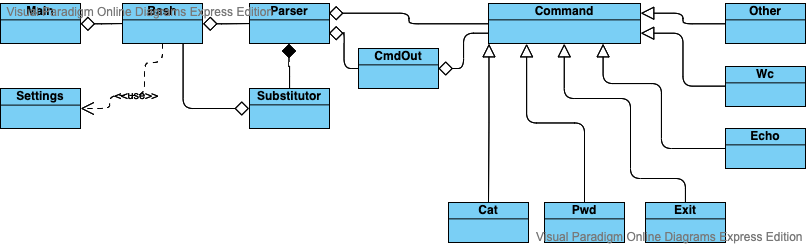
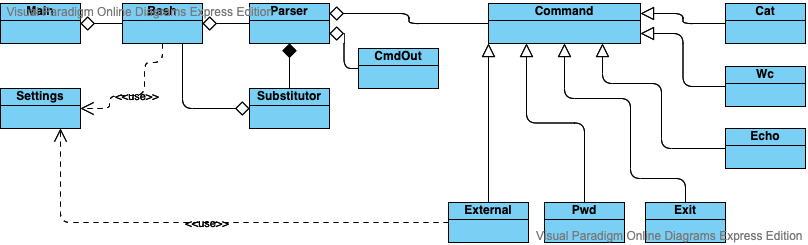
add handleLastPipeIsEmpty, fix line sep and External command error output

diff --git a/src/test/java/com/bash/CommandsIntegrationTest.kt b/src/test/java/com/bash/CommandsIntegrationTest.kt
@@ -10,6 +10,9 @@ import java.io.PrintStream
 
 
 class CommandsIntegrationTest {
+    
+    private val sep = System.lineSeparator() 
+    
     @Test
     fun testEcho() {
         val input = "echo hello world"
@@ -18,13 +21,13 @@ class CommandsIntegrationTest {
 
     @Test
     fun testSimpleEnv() {
-        val input = "x=1\necho \$x"
+        val input = "x=1${sep}echo \$x"
         checkCommand(input, "${Settings.PREFIX}1")
     }
 
     @Test
     fun testEnvWithQuotes() {
-        val input = "x=1\necho \"'\$x'\""
+        val input = "x=1${sep}echo \"'\$x'\""
         checkCommand(input, "${Settings.PREFIX}'1'")
     }
 
@@ -36,7 +39,7 @@ class CommandsIntegrationTest {
 
     @Test
     fun testWcWithEnv() {
-        val input = "FILE=src/test/resources/in1.txt\n" +
+        val input = "FILE=src/test/resources/in1.txt${sep}" +
                 "wc \$FILE"
         checkCommand(input, "${Settings.PREFIX}\t\t3\t\t4\t\t24 src/test/resources/in1.txt")
     }
@@ -75,17 +78,17 @@ class CommandsIntegrationTest {
 
     @Test
     fun testEnvSubstitution() {
-        val input = "a=one\n" +
-                    "b=two\n" +
+        val input = "a=one${sep}" +
+                    "b=two${sep}" +
                     "echo \$a\$b"
         checkCommand(input,"${Settings.PREFIX}${Settings.PREFIX}onetwo")
     }
 
     @Test
     fun testExitFromEnv() {
-        val input = "a=ex\n" +
-                    "b=it\n" +
-                    "\$a\$b\n" +
+        val input = "a=ex${sep}" +
+                    "b=it${sep}" +
+                    "\$a\$b${sep}" +
                     "echo should not print"
 
         val expectedBashOut = "${Settings.PREFIX}${Settings.PREFIX}${Settings.PREFIX}"
@@ -107,15 +110,43 @@ class CommandsIntegrationTest {
     @Test
     fun testErrorOutput() {
         val input = "exit 1 2 | exit 1 2 3 | echo a"
-        val expectedOut = "-bash: exit: too many arguments\n" +
-                "-bash: exit: too many arguments\n" +
+        val expectedOut = "-bash: exit: too many arguments${sep}" +
+                "-bash: exit: too many arguments${sep}" +
                 "a"
         checkCommand(input, expectedOut)
     }
 
+    @Test
+    fun testEmptyPipe() {
+        val input = "echo lol |$sep" + "cat"
+        val expectedOut = ">lol"
+        checkCommand(input, expectedOut)
+    }
+
+    @Test
+    fun testEmptyPipeClickEnter() {
+        val input = "echo lol |$sep$sep$sep$sep cat"
+        val expectedOut = ">>>>lol"
+        checkCommand(input, expectedOut)
+    }
+
+    @Test
+    fun testEmptyPipeError() {
+        val input = "echo lol |$sep exit 1 2 3"
+        val expectedOut = ">-bash: exit: too many arguments$sep"
+        checkCommand(input, expectedOut)
+    }
+
+    @Test
+    fun testEmptyPipePiped() {
+        val input = "echo lol |$sep cat | echo 123 | cat"
+        val expectedOut = ">123"
+        checkCommand(input, expectedOut)
+    }
+
     private fun checkCommand(input: String, expectedOut: String) {
-        val command = "$input${System.lineSeparator()} exit" // add exit command
-        val expectedBashOut =  Settings.PREFIX + "$expectedOut\n" + Settings.PREFIX
+        val command = "$input${sep} exit" // add exit command
+        val expectedBashOut =  Settings.PREFIX + "$expectedOut${sep}" + Settings.PREFIX
 
         System.setIn(ByteArrayInputStream(command.toByteArray()))
         val output = ByteArrayOutputStream()
@@ -129,6 +160,7 @@ class CommandsIntegrationTest {
 
     private fun ignoreColorChange(line: String): String {
         return line.replace(Settings.OUTPUT_COLOR, "", false)
+                .replace(Settings.ERR_COLOR, "", false)
                 .replace(Settings.ANSI_RESET, "", false)
     }
 }

diff --git a/src/main/java/com/bash/commands/External.kt b/src/main/java/com/bash/commands/External.kt
@@ -1,15 +1,13 @@
 package com.bash.commands
 
 import com.bash.util.CmdRes
-import java.io.BufferedReader
-import java.io.BufferedWriter
-import java.io.InputStreamReader
-import java.io.OutputStreamWriter
+import com.bash.util.Settings
+import java.io.*
 import java.lang.Exception
 
 
 /** class for handling not yet supported bash com.bash.commands
- * redirecting the com.bash.commands to real bash and returns it's output
+ * redirecting the commands to real bash and returns it's output
  * all the environment variables are already substituted
  * **/
 class External(
@@ -18,32 +16,37 @@ class External(
         private val lastRes: String) : Command() {
 
     override fun run(): CmdRes {
-        val osName = System.getProperty("os.name").toLowerCase()
         val cmd = "$cmdString ${args.joinToString(separator = " ")}"
 
         val process: Process
         try {
-            process = if (osName.contains("win"))
+            process = if (Settings.IS_WINDOWS)
                 ProcessBuilder("CMD", "/C", cmd).start()
             else ProcessBuilder("/bin/bash", "-c", cmd).start()
         } catch (e: Exception) {
             return CmdRes("", "can't start process for command: $cmdString")
         }
 
-        // redirecting output from pipe in case it's piped command
-        val input = BufferedWriter(OutputStreamWriter(process.outputStream))
-        input.write(lastRes)
-        input.flush()
-        input.close()
+        try { // redirecting output from pipe in case it's piped command
+            val input = BufferedWriter(OutputStreamWriter(process.outputStream))
+            input.write(lastRes)
+            input.flush()
+            input.close()
+        } catch (e: IOException) { }
 
-        val reader = BufferedReader(InputStreamReader(process.inputStream))
-        val res = mutableListOf<String>()
+
+        return CmdRes(readStream(process.inputStream), readStream(process.errorStream))
+    }
+
+    private fun readStream(st: InputStream): String {
+        val reader = BufferedReader(InputStreamReader(st))
+        val outRes = mutableListOf<String>()
 
         var tmpOut: String? // reading output of a command
         while (reader.readLine().also { tmpOut = it } != null) {
-            res.add(tmpOut!!)
+            outRes.add(tmpOut!!)
         }
 
-        return CmdRes(res.joinToString(separator = "\n"), "")
+        return outRes.joinToString(separator = System.lineSeparator())
     }
 }

diff --git a/src/main/java/com/bash/Bash.kt b/src/main/java/com/bash/Bash.kt
@@ -5,6 +5,7 @@ import com.bash.parser.Parser
 import com.bash.util.CmdRes
 import com.bash.util.Settings
 import com.bash.util.Settings.ANSI_RESET
+import com.bash.util.Settings.ERR_COLOR
 import com.bash.util.Settings.OUTPUT_COLOR
 import com.bash.util.Substitutor
 
@@ -20,15 +21,18 @@ class Bash {
             val line = readLine() ?: continue
             if ((line == "") or runIsAssignment(line, parser)) { continue }
 
-            val commands = line.split("|")
+            val commands = line.split("|").toMutableList()
             var lastRes = CmdRes("", "")
+
+            if (commands.last().isBlank())
+                handleLastPipeIsEmpty(commands)
 
             for (cmd in commands) {
                 val command = parser.parse(cmd.trim(), lastRes.sdtOut)
                 lastRes = command.run()
 
                 if (lastRes.stdErr.isNotBlank()) // error output
-                    println(lastRes.stdErr)
+                    println(ERR_COLOR + lastRes.stdErr + ANSI_RESET)
 
                 if (command is Exit && commands.size == 1)
                     return
@@ -52,5 +56,19 @@ class Bash {
         }
 
         return false
+    }
+    
+    private fun handleLastPipeIsEmpty(commands: MutableList<String>) {
+        if (commands.last().isBlank())
+            commands.remove(commands.last())
+
+        print(">")
+        val newCommands = readLine()?.split("|")?.filter { it.isNotBlank() }
+        if (newCommands.isNullOrEmpty())
+            handleLastPipeIsEmpty(commands)
+
+        if (newCommands != null) {
+            commands.addAll(newCommands)
+        }
     }
 }

diff --git a/src/test/java/com/bash/CommandsTest.kt b/src/test/java/com/bash/CommandsTest.kt
@@ -2,7 +2,9 @@ package com.bash
 
 import com.bash.commands.External
 import com.bash.commands.Wc
+import com.bash.util.Settings
 import junit.framework.TestCase.assertEquals
+import junit.framework.TestCase.assertTrue
 import org.junit.Test
 import java.io.File
 
@@ -57,10 +59,23 @@ class CommandsTest {
     fun testExternalError() {
         val out = External("kkkk", emptyList(), "").run()
         assertEquals("", out.sdtOut)
+
+        if (Settings.IS_WINDOWS) {
+            assertTrue(out.stdErr.isNotBlank())
+        } else {
+            assertEquals("/bin/bash: kkkk: command not found", out.stdErr)
+        }
     }
 
     @Test
-    fun testOtherAsEchoTwoArgs() {
+    fun testExternalErrorOut() {
+        val out = External("git kkkk", emptyList(), "").run()
+        assertEquals("", out.sdtOut)
+        assertEquals("git: 'kkkk' is not a git command. See 'git --help'.", out.stdErr)
+    }
+
+    @Test
+    fun testExternalAsEchoTwoArgs() {
         val out = External("echo", listOf("lol", "lol2"), "").run()
         assertEquals("lol lol2", out.sdtOut)
     }

diff --git a/src/main/java/com/bash/commands/Cat.kt b/src/main/java/com/bash/commands/Cat.kt
@@ -2,6 +2,7 @@ package com.bash.commands
 
 import com.bash.util.CmdRes
 import java.io.File
+import java.lang.Exception
 
 /**
  * if not piped then first argument should be a filename
@@ -13,6 +14,14 @@ class Cat(private val args: List<String>, private val lastRes: String): Command(
             return CmdRes(lastRes, "")
 
         val filename = args.first()
-        return CmdRes(File(filename).readText(), "")
+
+        val res: String
+        try {
+            res = File(filename).readText()
+        } catch (e: Exception) {
+            return CmdRes("", e.toString())
+        }
+
+        return CmdRes(res, "")
     }
 }

diff --git a/src/main/java/com/bash/util/Settings.kt b/src/main/java/com/bash/util/Settings.kt
@@ -4,7 +4,9 @@ import com.bash.commands.Pwd
 
 /** CLI settings **/
 object Settings {
+    val IS_WINDOWS = System.getProperty("os.name").toLowerCase().contains("win")
     val PREFIX = Pwd().run().sdtOut + ">$"
     const val OUTPUT_COLOR = "\u001B[32m" // bash result color
+    const val ERR_COLOR = "\u001B[31m"  // err stream color
     const val ANSI_RESET = "\u001B[0m"    // reset the color back
 }

diff --git a/src/main/java/com/bash/main.kt b/src/main/java/com/bash/main.kt
@@ -1,7 +1,5 @@
 package com.bash
 
-import com.bash.Bash
-
 /** starting the program */
 fun main() {
     val sh = Bash()

diff --git a/README.md b/README.md
@@ -15,7 +15,7 @@ bash interpreter implementation on kotlin
 #### `CmdOut` class
 Each command  returns CmdOut. <br />
 CmdOut.stdOut represents the command output. CmdOut.stdErr represents command error. <br />
-If com.bash.commands are piped the output of a previous command goes as an input for the next one.
+If commands are piped the output of a previous command goes as an input for the next one.
 
 Project diagram:
 ![bash](./src/main/java/com/bash/docs/bash.png)
